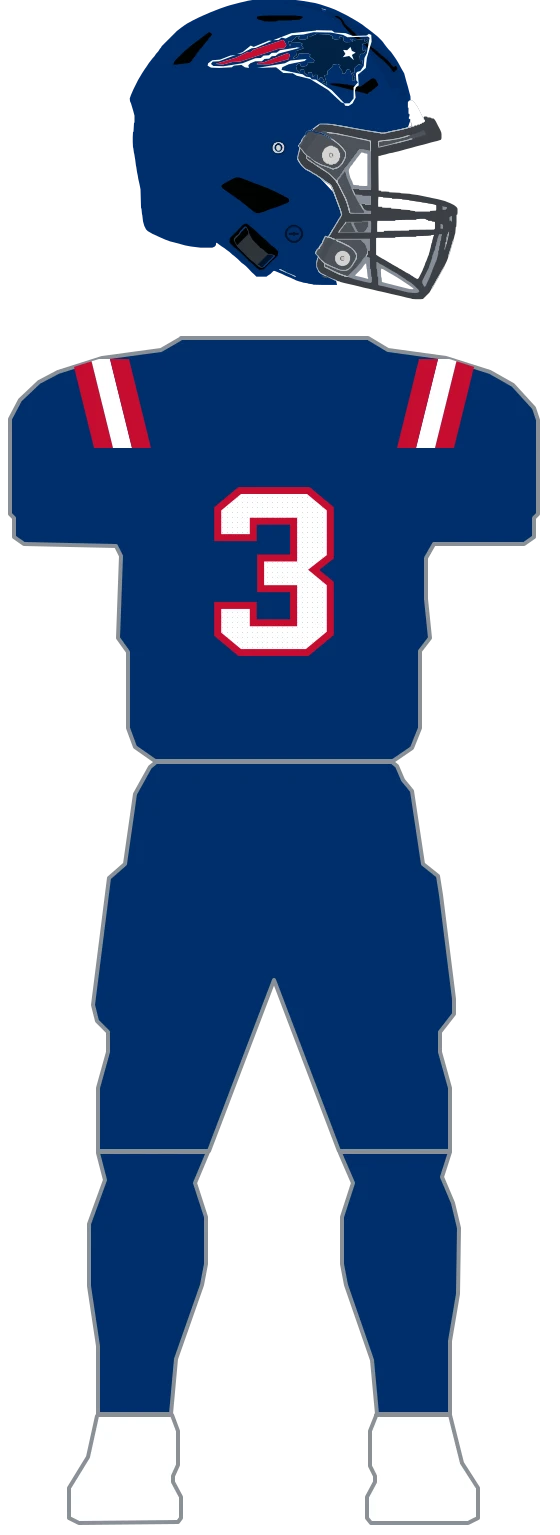
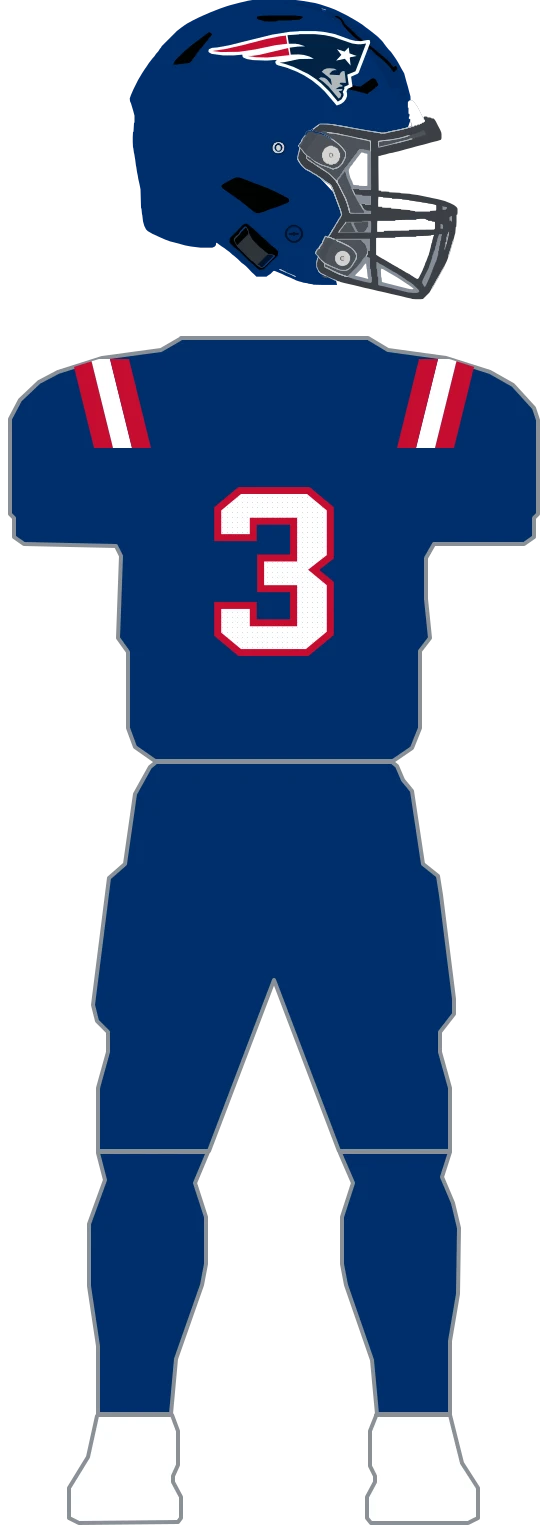
fix(uniforms): re-author Patriots helmet decal

Changed region(s): [[0.3643, 0.0, 0.6679, 0.0919]]

diff --git a/lib/uniforms/teams/patriots.ts b/lib/uniforms/teams/patriots.ts
@@ -56,10 +56,12 @@ export const PATRIOTS_BANDS_RIGHT = [
 // measuring. That matters for the predicates — the navy samples (3,18,51), so a blue-channel
 // threshold tuned on the PNG sheets (b > 60) misses it entirely and the face comes back empty.
 export const PATRIOTS_DECAL_KEYLINE_PATH =
-  'M511.9,135.8 L537.8,137.1 L544.5,140.5 L543.9,144.5 L549.3,147.1 L560.2,145.8 L557.5,141.8 L561.5,140.5 L566.3,143.1 L566.3,149.1 L571.0,152.5 L584.6,151.8 L585.3,149.8 L579.9,147.1 L581.2,145.8 L588.0,148.5 L609.1,145.8 L608.4,151.1 L613.8,149.1 L613.8,145.1 L615.9,146.5 L615.2,151.1 L611.8,154.5 L605.7,154.5 L603.6,159.2 L604.3,167.8 L606.4,169.8 L609.8,167.2 L610.4,170.5 L606.4,175.8 L600.9,175.8 L598.9,179.9 L599.6,190.5 L605.0,189.2 L603.0,198.6 L596.9,196.5 L588.7,203.9 L588.0,213.9 L583.9,213.2 L589.4,222.6 L588.0,229.3 L583.9,229.9 L583.9,218.6 L579.2,207.9 L573.8,206.6 L569.7,214.6 L564.2,215.9 L563.6,209.2 L558.1,202.6 L560.2,198.6 L554.7,195.9 L545.2,197.2 L545.2,201.2 L534.4,209.9 L534.4,217.2 L528.2,218.6 L533.7,237.3 L524.8,233.3 L525.5,230.6 L528.9,231.3 L524.2,223.3 L519.4,223.3 L517.4,227.9 L514.7,226.6 L514.7,217.9 L508.5,217.9 L505.1,222.6 L503.1,212.6 L496.3,212.6 L495.0,218.6 L488.2,213.9 L487.5,207.2 L480.7,207.2 L478.7,213.2 L471.2,206.6 L473.2,204.6 L471.2,200.6 L476.6,194.5 L480.7,195.9 L479.3,198.6 L482.0,200.6 L489.5,200.6 L494.3,197.9 L493.6,193.9 L506.5,193.2 L508.5,188.5 L498.4,181.2 L500.4,177.2 L495.0,174.5 L477.3,175.2 L474.6,181.9 L466.4,185.9 L466.4,182.5 L472.5,178.5 L471.2,170.5 L486.8,164.5 L482.0,158.5 L484.8,155.8 L479.3,153.1 L461.7,153.8 L459.6,160.5 L455.6,151.1 L461.7,151.8 L473.2,140.5 L479.3,140.5 L475.9,144.5 L478.0,146.5 L489.5,147.1 L494.3,145.1 L494.3,139.8 L501.7,140.5 L511.3,136.5 Z M511.9,128.4 L543.2,129.1 L548.6,133.1 L571.0,134.4 L584.6,139.8 L612.5,139.1 L617.2,135.8 L622.0,137.8 L622.7,151.1 L613.2,183.9 L611.1,203.9 L595.5,217.2 L596.9,238.6 L591.4,242.6 L589.4,249.3 L590.7,263.3 L584.6,274.7 L576.5,280.0 L569.7,279.4 L567.6,274.7 L562.2,272.7 L535.7,248.0 L499.7,225.9 L472.5,219.3 L465.1,214.6 L446.0,213.9 L431.8,202.6 L393.7,203.9 L449.4,194.5 L459.6,189.2 L492.9,185.9 L488.8,189.9 L456.9,196.5 L444.0,202.6 L442.6,207.9 L484.8,216.6 L491.6,221.3 L499.7,222.6 L503.1,226.6 L511.3,227.3 L543.2,248.6 L568.3,274.7 L578.5,274.7 L586.7,264.7 L586.7,242.6 L595.5,232.6 L592.1,228.6 L591.4,215.2 L593.5,211.9 L600.2,209.9 L607.0,199.9 L608.4,183.9 L613.2,174.5 L618.6,143.8 L615.2,141.1 L574.4,142.5 L565.6,137.8 L541.1,133.1 L506.5,132.4 L486.1,137.1 L463.7,138.5 L450.8,145.1 L442.6,143.1 L437.2,147.8 L425.7,148.5 L462.3,134.4 L511.3,129.1 Z M472.5,162.5 L479.3,163.8 L436.5,175.2 L430.4,179.9 L422.9,180.5 L418.2,185.2 L408.7,185.9 L403.2,190.5 L390.3,190.5 L380.2,194.5 L376.1,198.6 L377.4,203.9 L369.3,202.6 L362.5,197.9 L347.5,199.2 L342.8,202.6 L318.3,203.9 L301.4,203.2 L294.6,199.2 L295.9,194.5 L304.1,188.5 L319.7,187.2 L340.1,179.2 L350.9,177.9 L317.7,190.5 L304.8,191.2 L301.4,195.9 L306.1,199.9 L326.5,200.6 L364.5,194.5 L390.3,184.5 L401.2,183.9 L406.6,179.2 L417.5,178.5 L422.9,173.8 L433.1,173.2 L439.3,168.5 L471.9,163.2 Z M444.0,147.8 L447.4,149.1 L452.2,158.5 L448.1,164.5 L435.9,165.8 L359.8,191.2 L344.8,191.9 L324.4,197.2 L310.9,195.9 L351.6,183.2 L374.0,172.5 L381.5,171.8 L385.6,167.8 L443.3,148.5 Z M416.8,149.1 L422.9,149.8 L391.0,163.8 L382.9,164.5 L362.5,175.2 L353.7,175.8 L364.5,172.5 L380.8,159.2 L386.9,161.8 L416.2,149.8 Z M452.8,174.5 L459.0,176.5 L456.9,186.5 L418.9,196.5 L393.1,196.5 L395.1,193.9 L405.3,193.2 L452.2,175.2 Z';
+  'M477.3,130.1 L509.9,130.1 L526.3,131.6 L549.7,136.3 L579.6,147.2 L590.5,149.8 L601.3,150.3 L616.0,147.7 L619.3,148.8 L619.8,153.9 L597.0,213.1 L595.3,215.2 L581.7,221.4 L584.5,241.1 L574.7,245.8 L572.5,250.9 L573.6,254.6 L573.6,260.3 L571.4,266.0 L567.6,271.2 L561.6,275.8 L552.9,279.0 L528.4,250.4 L518.1,240.6 L504.0,229.2 L488.7,219.3 L473.5,211.5 L452.3,203.2 L435.4,198.6 L431.6,196.5 L430.0,192.3 L431.1,189.7 L433.3,188.2 L432.7,187.7 L413.1,189.2 L385.4,188.2 L373.4,186.1 L366.9,183.5 L364.7,181.4 L364.2,177.3 L347.3,178.8 L325.5,178.8 L302.7,175.7 L297.3,172.6 L296.2,170.5 L297.3,166.4 L303.2,163.8 L314.7,162.8 L337.5,158.6 L423.5,137.3 L458.8,131.6 L476.8,130.6 Z';
 export const PATRIOTS_DECAL_FACE_PATH =
-  'M511.9,135.8 L537.8,137.1 L544.5,140.5 L543.9,144.5 L549.3,147.1 L560.2,145.8 L557.5,141.8 L561.5,140.5 L566.3,143.1 L566.3,149.1 L571.0,152.5 L584.6,151.8 L585.3,149.8 L579.9,147.1 L581.2,145.8 L588.0,148.5 L609.1,145.8 L608.4,151.1 L613.8,149.1 L613.8,145.1 L615.9,146.5 L615.2,151.1 L611.8,154.5 L605.7,154.5 L603.6,159.2 L604.3,167.8 L606.4,169.8 L609.8,167.2 L610.4,170.5 L606.4,175.8 L600.9,175.8 L598.9,179.9 L599.6,190.5 L605.0,189.2 L603.0,198.6 L596.9,196.5 L588.7,203.9 L588.0,213.9 L583.9,213.2 L589.4,222.6 L588.0,229.3 L583.9,229.9 L583.9,218.6 L579.2,207.9 L573.8,206.6 L569.7,214.6 L564.2,215.9 L563.6,209.2 L558.1,202.6 L560.2,198.6 L554.7,195.9 L545.2,197.2 L545.2,201.2 L534.4,209.9 L534.4,217.2 L528.2,218.6 L533.7,237.3 L524.8,233.3 L525.5,230.6 L528.9,231.3 L524.2,223.3 L519.4,223.3 L517.4,227.9 L514.7,226.6 L514.7,217.9 L508.5,217.9 L505.1,222.6 L503.1,212.6 L496.3,212.6 L495.0,218.6 L488.2,213.9 L487.5,207.2 L480.7,207.2 L478.7,213.2 L471.2,206.6 L473.2,204.6 L471.2,200.6 L476.6,194.5 L480.7,195.9 L479.3,198.6 L482.0,200.6 L489.5,200.6 L494.3,197.9 L493.6,193.9 L506.5,193.2 L508.5,188.5 L498.4,181.2 L500.4,177.2 L495.0,174.5 L477.3,175.2 L474.6,181.9 L466.4,185.9 L466.4,182.5 L472.5,178.5 L471.2,170.5 L486.8,164.5 L482.0,158.5 L484.8,155.8 L479.3,153.1 L461.7,153.8 L459.6,160.5 L455.6,151.1 L461.7,151.8 L473.2,140.5 L479.3,140.5 L475.9,144.5 L478.0,146.5 L489.5,147.1 L494.3,145.1 L494.3,139.8 L501.7,140.5 L511.3,136.5 Z';
+  'M477.9,136.3 L509.4,136.3 L529.5,138.4 L545.8,142.0 L583.9,155.0 L594.8,156.5 L601.9,156.5 L611.7,155.0 L590.5,210.5 L574.1,217.2 L576.9,237.5 L568.1,241.6 L568.1,245.8 L564.9,252.0 L566.5,255.6 L566.5,259.2 L562.7,266.5 L555.1,271.2 L538.2,250.9 L521.4,234.3 L511.0,226.0 L496.3,216.2 L466.4,201.7 L447.9,195.4 L438.7,193.4 L447.9,192.3 L477.9,186.1 L507.2,185.6 L498.0,180.9 L486.6,177.8 L476.2,176.8 L461.0,177.3 L458.8,163.3 L475.1,161.2 L489.8,160.7 L477.3,156.5 L470.2,155.5 L457.2,155.5 L454.5,138.4 L477.3,136.8 Z';
 export const PATRIOTS_DECAL_STREAMERS_PATH =
-  'M444.0,147.8 L447.4,149.1 L452.2,158.5 L448.1,164.5 L435.9,165.8 L359.8,191.2 L344.8,191.9 L324.4,197.2 L310.9,195.9 L351.6,183.2 L374.0,172.5 L381.5,171.8 L385.6,167.8 L443.3,148.5 Z M452.8,174.5 L459.0,176.5 L456.9,186.5 L418.9,196.5 L393.1,196.5 L395.1,193.9 L405.3,193.2 L452.2,175.2 Z';
+  'M450.1,138.9 L451.2,139.4 L453.9,155.5 L431.6,158.1 L389.7,166.9 L357.1,171.6 L321.7,172.1 L303.8,170.0 L331.5,165.9 L363.6,158.6 L411.5,146.2 L439.8,140.5 L449.6,139.4 Z M455.6,163.8 L458.3,178.3 L414.2,183.0 L391.9,182.5 L373.4,179.9 L382.1,179.9 L397.9,177.8 L455.0,164.3 Z';
+export const PATRIOTS_DECAL_SILVER_PATH =
+  'M537.1,204.3 L548.0,205.3 L553.5,208.4 L548.0,208.4 L543.7,210.0 L538.8,215.2 L538.8,217.2 L558.4,218.3 L560.5,213.6 L563.3,211.0 L566.0,210.0 L568.7,210.5 L571.4,233.8 L560.5,233.3 L558.4,235.9 L564.3,238.5 L564.3,241.1 L557.8,241.6 L550.7,246.3 L564.9,245.8 L562.2,249.9 L556.7,249.9 L562.2,256.7 L560.5,262.4 L556.7,265.0 L536.6,241.1 L526.3,231.8 L517.0,225.0 L521.4,222.4 L528.4,223.5 L533.3,226.6 L541.5,236.9 L542.6,238.0 L543.1,237.5 L541.0,226.0 L523.0,211.5 L527.4,206.9 L533.3,204.8 L536.6,204.8 Z';
 export const PATRIOTS_DECAL_STAR_PATH =
-  'M580.5,161.8 L583.3,169.8 L590.7,173.2 L583.3,177.9 L587.3,188.5 L577.8,179.9 L564.9,182.5 L570.4,175.8 L565.6,167.8 L573.8,168.5 L579.9,162.5 Z';
+  'M576.9,162.8 L578.5,174.7 L592.6,179.9 L580.1,182.5 L579.0,183.5 L580.7,199.1 L569.2,185.6 L551.8,189.2 L562.2,177.8 L553.5,166.4 L568.7,171.1 L576.3,163.3 Z';

diff --git a/lib/uniforms/teams/patriots.parts.ts b/lib/uniforms/teams/patriots.parts.ts
@@ -22,6 +22,7 @@ import {
   PATRIOTS_BANDS_RIGHT,
   PATRIOTS_DECAL_FACE_PATH,
   PATRIOTS_DECAL_KEYLINE_PATH,
+  PATRIOTS_DECAL_SILVER_PATH,
   PATRIOTS_DECAL_STAR_PATH,
   PATRIOTS_DECAL_STREAMERS_PATH,
 } from './patriots';
@@ -60,6 +61,7 @@ function decal(): PartLayer[] {
       ['patriots-decal-keyline', PATRIOTS_DECAL_KEYLINE_PATH, 'white'],
       ['patriots-decal-face', PATRIOTS_DECAL_FACE_PATH, 'navy'],
       ['patriots-decal-streamers', PATRIOTS_DECAL_STREAMERS_PATH, 'red'],
+      ['patriots-decal-silver', PATRIOTS_DECAL_SILVER_PATH, 'silver'],
       ['patriots-decal-star', PATRIOTS_DECAL_STAR_PATH, 'white'],
     ] as [string, string, string][]
   ).map(([id, d, fill]) => ({
@@ -125,6 +127,7 @@ const PANTS_NAVY: UniformPart = { base: 'navy', layers: [] };
 const PANTS_WHITE: UniformPart = { base: 'white', layers: [] };
 const PANTS_PAT: UniformPart = { base: 'patRed', layers: [] };
 const PANTS_RIVALRIES: UniformPart = { base: 'rivalNavy', layers: [] };
+const PANTS_SILVER: UniformPart = { base: 'silver', layers: [] };
 
 export const PATRIOTS_PARTS: TeamPartsDefinition = {
   teamId: 'patriots',
@@ -151,12 +154,22 @@ export const PATRIOTS_PARTS: TeamPartsDefinition = {
     pat: JERSEY_PAT,
     rivalries: JERSEY_RIVALRIES,
   },
-  pants: { navy: PANTS_NAVY, white: PANTS_WHITE, pat: PANTS_PAT, rivalries: PANTS_RIVALRIES },
+  pants: {
+    navy: PANTS_NAVY,
+    white: PANTS_WHITE,
+    pat: PANTS_PAT,
+    rivalries: PANTS_RIVALRIES,
+    silver: PANTS_SILVER,
+  },
   kits: {
-    home: { helmet: 'navy', jersey: 'navy', pants: 'navy' },
-    away: { helmet: 'silver', jersey: 'white', pants: 'white' },
-    'pat-patriot': { helmet: 'pat', jersey: 'pat', pants: 'pat' },
-    'rivalries-2025': { helmet: 'rivalries', jersey: 'rivalries', pants: 'rivalries' },
+    home: { helmet: 'navy', jersey: 'navy', pants: ['navy', 'silver'] },
+    away: { helmet: 'silver', jersey: 'white', pants: ['white', 'navy'] },
+    'pat-patriot': { helmet: 'pat', jersey: 'pat', pants: ['pat', 'white'] },
+    'rivalries-2025': {
+      helmet: 'rivalries',
+      jersey: 'rivalries',
+      pants: ['rivalries', 'silver'],
+    },
   },
 };
 

diff --git a/scripts/uniform-draw/patriots_mark.py b/scripts/uniform-draw/patriots_mark.py
@@ -1,0 +1,107 @@
+"""Regenerates the New England Patriots helmet mark in ``lib/uniforms/teams/patriots.ts``.
+
+    python3 scripts/uniform-draw/patriots_mark.py --check
+
+This is a contour trace of the approved standalone helmet-mark SVG, not the GUD composite. The
+upstream mark is the non-free, trademarked ``File:New England Patriots logo.svg`` on Wikipedia;
+the fair-use and provenance decision is recorded in the depth vault's Decisions.md (2026-09-03).
+The SVG is used only as the linework source and is never committed. The GUD 2025 composite is
+used only for placement measurements: on the home helmet the visible mark spans approximately
+x=37..159 and y=285..399, or 11.5% left, 70.1% wide, 14.6% top, and 20.2% high against the
+helmet shell. Transferred to the raw mannequin shell, that is the retained placement box
+``Box(294.0, 128.0, 328.0, 152.0)``; its 2.16 aspect intentionally follows the shell's
+foreshortened side view rather than squeezing the flat SVG to its own 2.03 aspect.
+
+TOPOLOGY, measured before tracing from a black-backed raster of the SVG: one 8-connected navy
+face component, two red streamer components, one silver face component, one white keyline
+component, and one separate white star component. There are no enclosed holes. The selection trap
+is that the white keyline and star share an ink colour, while the silver face is easy to mistake
+for shell or facemask grey when selecting from the GUD composite; the generator selects each by
+component in the approved SVG instead. All five colour layers are traced against one shared art
+bbox so their relative positions survive emission.
+
+The SVG is too wide for qlmanage's square-thumbnail behavior, so the generator uses ImageMagick
+to rasterize it at its true aspect on a black background before drawkit measures components. The
+black background prevents transparent/white confusion and is cropped away before tracing. The
+generated paths were compared numerically against the same normalized source bbox at 5% row
+intervals and visually at helmet-thumbnail scale; ``drawkit.main`` owns ``--check``.
+"""
+
+from __future__ import annotations
+
+import subprocess
+import sys
+import tempfile
+from pathlib import Path
+
+from PIL import Image
+
+sys.path.insert(0, str(Path(__file__).resolve().parent))
+
+from drawkit import Box, components, crop_to_art, main, mask, trace  # noqa: E402
+
+REF = Path.home() / 'Documents/GitHubProjects/nfl-uniform-refs/patriots/patriots-mark.svg'
+MODULE = Path(__file__).resolve().parents[2] / 'lib' / 'uniforms' / 'teams' / 'patriots.ts'
+BOX = Box(294.0, 128.0, 328.0, 152.0)
+MIN_REGION = 100
+EPS = 1.2
+
+
+def render_reference():
+    """Rasterize the wide SVG at true aspect, avoiding qlmanage's square crop."""
+    with tempfile.TemporaryDirectory() as tmp:
+        rendered = Path(tmp) / 'patriots-mark.png'
+        subprocess.run(
+            ['magick', '-background', 'black', '-density', '300', str(REF), str(rendered)],
+            check=True,
+            capture_output=True,
+        )
+        return crop_to_art(Image.open(rendered).convert('RGB'), bg=10)
+
+
+def predicate(name):
+    if name == 'navy':
+        return lambda c: c[2] > 30 and c[0] < 40 and c[1] < 90
+    if name == 'red':
+        return lambda c: c[0] > 120 and c[1] < 100 and c[2] < 110
+    if name == 'silver':
+        return lambda c: 90 < c[0] < 220 and 90 < c[1] < 220 and 90 < c[2] < 220 and max(c) - min(c) < 24
+    if name == 'white':
+        return lambda c: min(c) > 180
+    raise ValueError(name)
+
+
+def component_mask(im, name, index=0):
+    m, w, h = mask(im, predicate(name))
+    regions = components(m, w, h, MIN_REGION)
+    cells = set(regions[index])
+    return [[1 if (x, y) in cells else 0 for x in range(w)] for y in range(h)], w, h
+
+
+def build():
+    im = render_reference()
+    _, w, h = mask(im, predicate('navy'))
+    white, w, h = mask(im, predicate('white'))
+    white_regions = components(white, w, h, MIN_REGION)
+    keyline = set(white_regions[0])
+    star = set(white_regions[1])
+    keyline_mask = [[1 if (x, y) in keyline else 0 for x in range(w)] for y in range(h)]
+    star_mask = [[1 if (x, y) in star else 0 for x in range(w)] for y in range(h)]
+    red, _, _ = mask(im, predicate('red'))
+    red_cells = {cell for region in components(red, w, h, MIN_REGION) for cell in region}
+    red_mask = [[1 if (x, y) in red_cells else 0 for x in range(w)] for y in range(h)]
+
+    def emit(component):
+        return trace(component[0], component[1], component[2], BOX, eps=EPS, minsize=MIN_REGION)
+
+    return {
+        'PATRIOTS_DECAL_KEYLINE_PATH': emit((keyline_mask, w, h)),
+        'PATRIOTS_DECAL_FACE_PATH': emit(component_mask(im, 'navy')),
+        'PATRIOTS_DECAL_STREAMERS_PATH': emit((red_mask, w, h)),
+        'PATRIOTS_DECAL_SILVER_PATH': emit(component_mask(im, 'silver')),
+        'PATRIOTS_DECAL_STAR_PATH': emit((star_mask, w, h)),
+    }
+
+
+if __name__ == '__main__':
+    main(build, MODULE)
